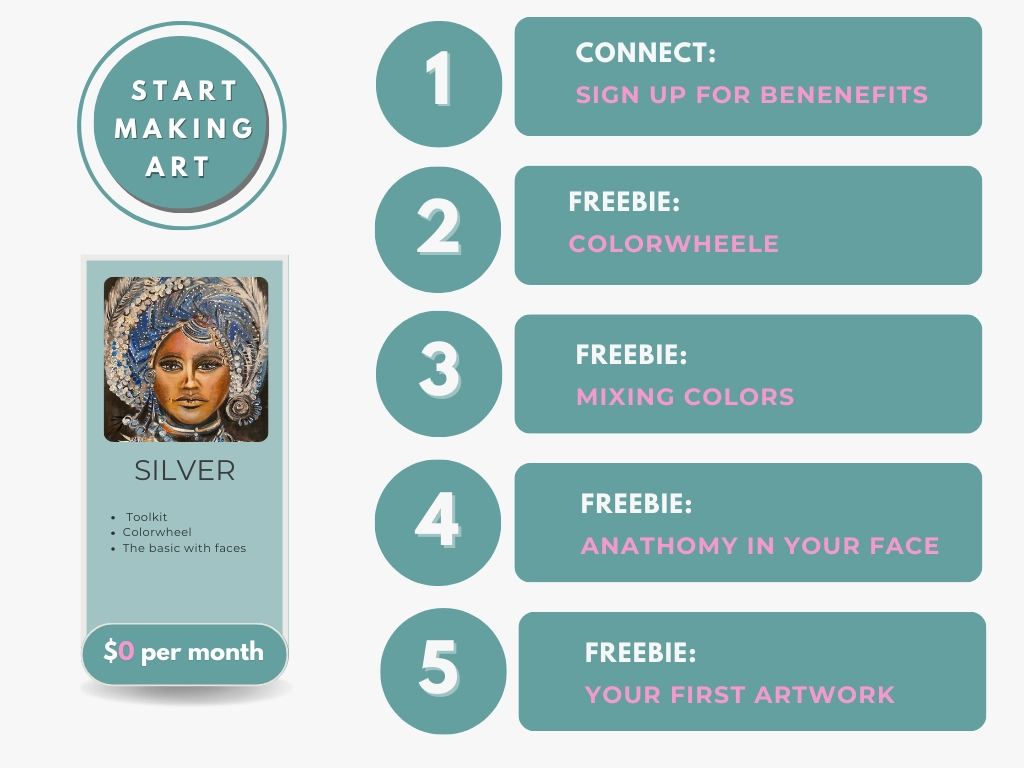
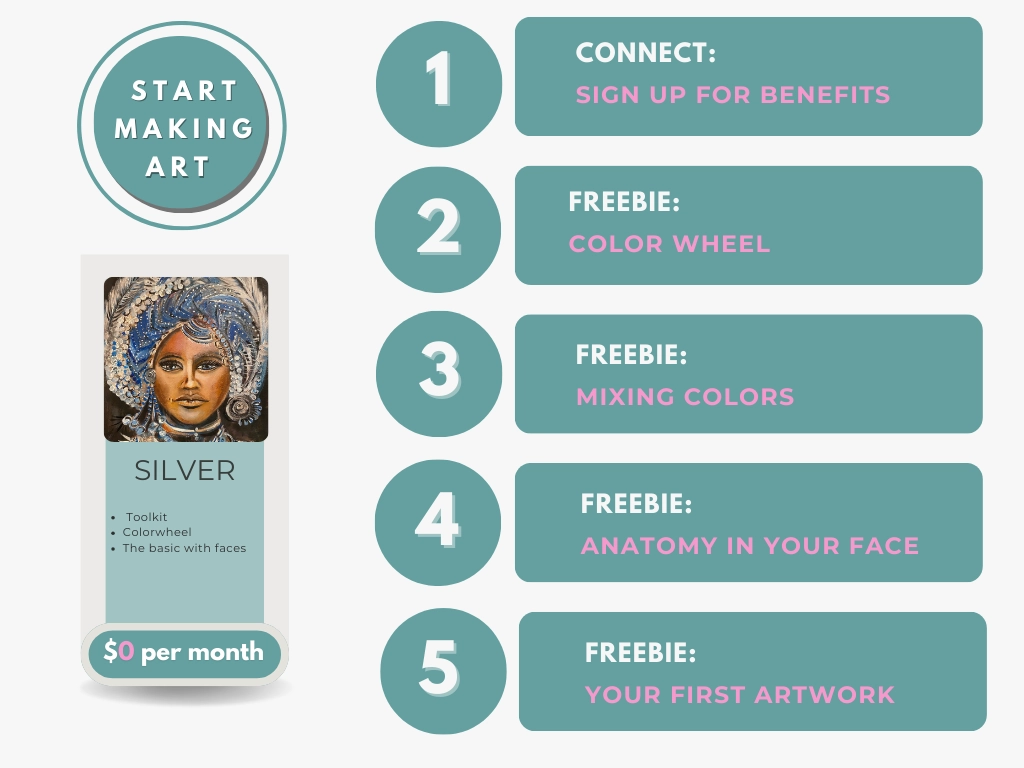
Images: memberships-spelling issues -now updated

diff --git a/about.html b/about.html
@@ -57,14 +57,14 @@
             I started my creative journey 2017.
             At a doctors appointment I was bored so I took a paper and a pen and started to doodle, while he was
             talking.
-            I found it very relaxing and that drawing bebcame a new chapter in my life. <br><br>
-            In that hospital I found a new hobby that became a very importend part of my life. ideveloped my own teqniqe
+            I found it very relaxing and that drawing became a new chapter in my life. <br><br>
+            In that hospital I found a new hobby that became a very importent part of my life. I developed my own technique
             doing faces- with lots of color and flowers.
-            Since that day I have sold many paintings and I had exhibitions all over Europe <br><br>
-            During the pandemic I had an oppertunity to open my own art Gallery in Täby Centrum, the biggest mall in
+            Since that day I have sold many paintings and I had exhibitions all over Europe. <br><br>
+            During the pandemic I had an opportunity to open my own art Gallery in Täby Centrum, the biggest mall in
             Sweden.
-            "Everybody carry a lifestory and everybody deserve to tell it. I tell my story throught my artworks- I i
-            wish more people find this painting as a channel to develiope their creativity." 
+            "Everybody carry a lifestory and everybody deserve to tell it. I tell my story through my artworks- I
+            wish more people find painting as a channel to develope their creativity." 
             <a href="signup.html" class="linkjoinnow">JOIN NOW >>></a>
         </div>
 

diff --git a/index.html b/index.html
@@ -95,7 +95,7 @@
                     <img src="assets/images/cdart3.webp" alt="Sold art, seaview acrylic painting">
                     <img src="assets/images/cdart4.webp" alt="Sold art, abstract painting">
                 </div>
-                <div class="readmore"> Everybody has an uniqe talent-find it and develope it.<a href="about.html"> Read
+                <div class="readmore"> Everybody has an unique talent-find it and develop it.<a href="about.html"> Read
                         more </a>
 
                 </div>

diff --git a/README.md b/README.md
@@ -171,7 +171,7 @@ As the amount of members grow the company can increase the functions:
 
 ### Validator Testing 
 
-W3C 
+- HTML: 
 All pages were "Document checking complete. No errors or warning to show"
 ![Validation index.html](assets/images/readme-W31-index.webp)
 ![Validation inspiration.html](assets/images/readme-W3-inspiration.webp)
@@ -180,7 +180,7 @@ All pages were "Document checking complete. No errors or warning to show"
 ![Validation about.html](assets/images/readme-W3-about.webp)
 ![Validation about.html](assets/images/readme-W3-welcome.webp)
 
-CSS 
+- CSS: 
 Css-file is checking and complete.
 ![W3 CSS ](assets/images/readme-w3css.webp)
 
